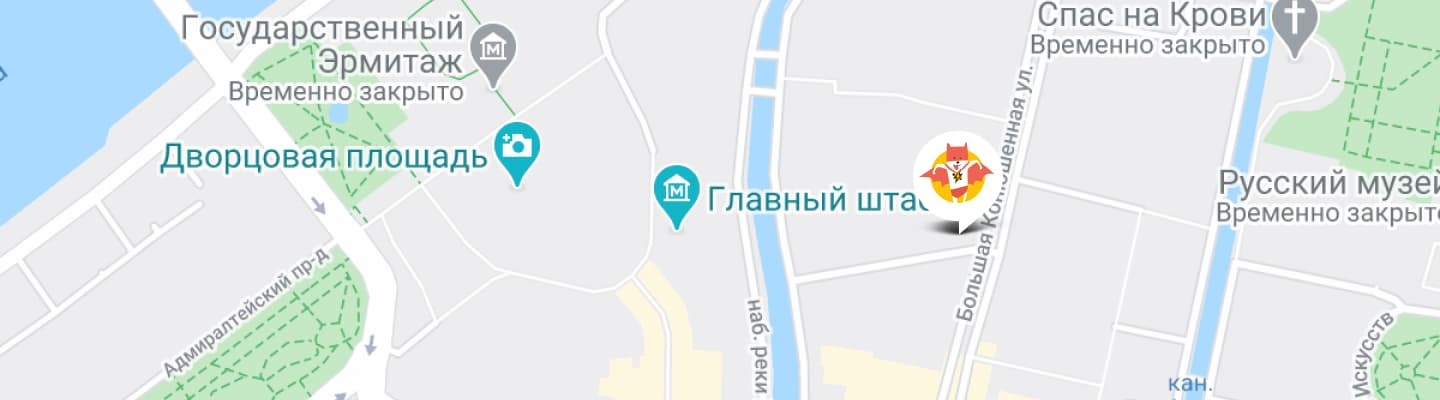
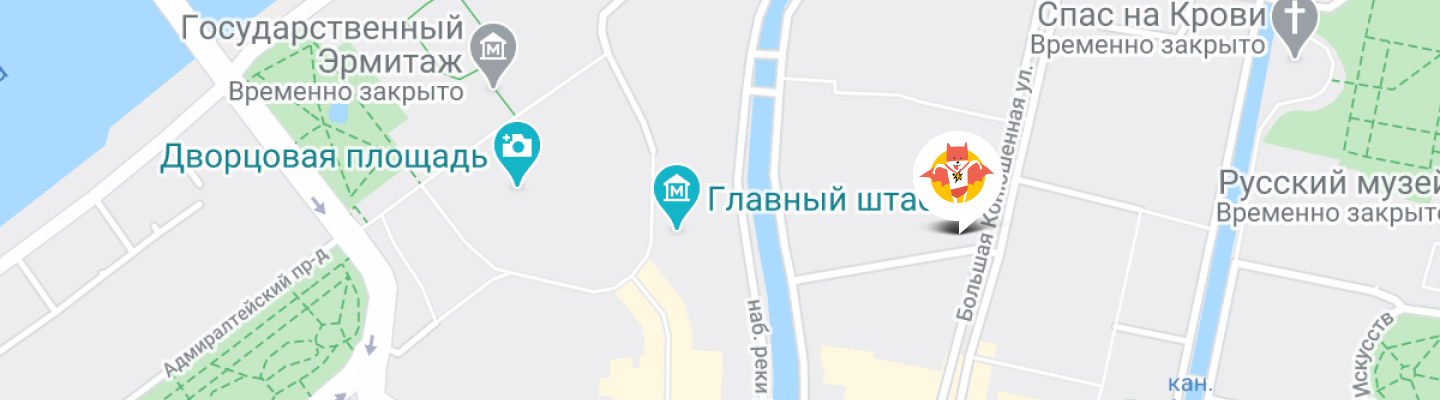
добавлены карты

Changed region(s): [[0.4375, 0.36, 0.6875, 0.54], [0.125, 0.3, 0.375, 0.42]]

diff --git a/source/sass/blocks/contacts.scss b/source/sass/blocks/contacts.scss
@@ -104,12 +104,24 @@
   background-size: contain;
   background-position: center;
 
+  @media (min-resolution: 2dppx) {
+    background-image: url("../img/maps/map-mobile@2x.jpg");
+  }
+
   @media (min-width: variables.$tablet-width) {
     height: 400px;
     background-image: url("../img/maps/map-tablet.jpg");
   }
 
+  @media (min-width: variables.$tablet-width) and (min-resolution: 2dppx) {
+    background-image: url("../img/maps/map-tablet@2x.jpg");
+  }
+
   @media (min-width: variables.$desktop-width) {
     background-image: url("../img/maps/map-desktop.jpg");
+  }
+
+  @media (min-width: variables.$desktop-width) and (min-resolution: 2dppx) {
+    background-image: url("../img/maps/map-desktop@2x.jpg");
   }
 }
